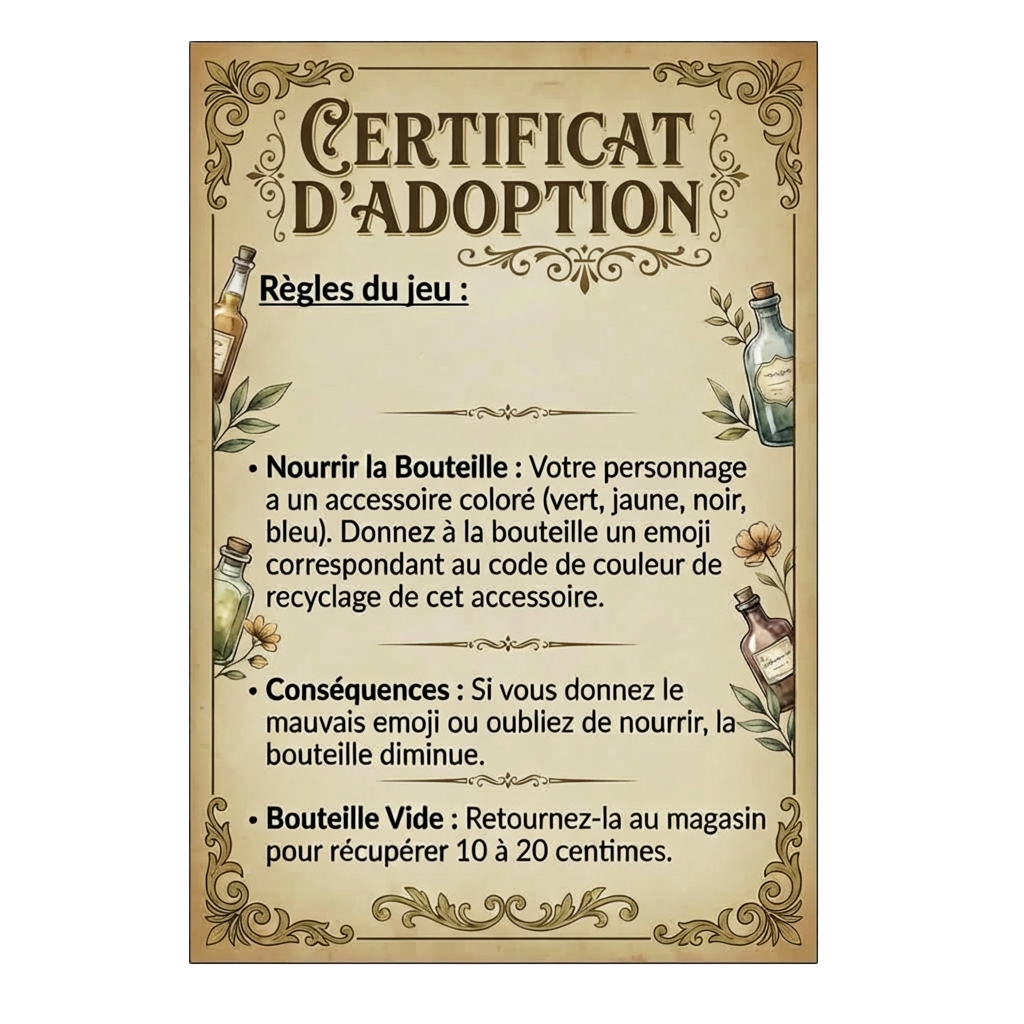
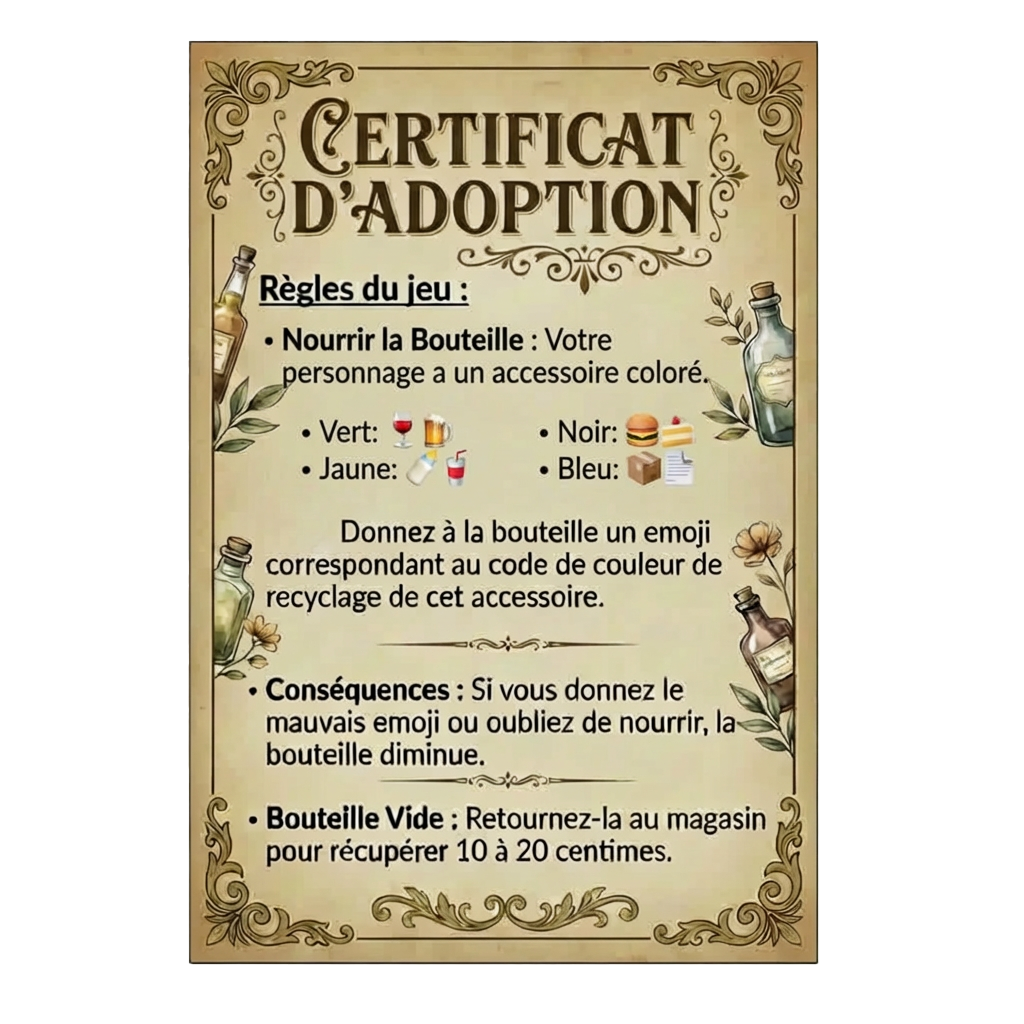
Updated the rules

diff --git a/endpoint/endpoint.py b/endpoint/endpoint.py
@@ -526,7 +526,8 @@ def whatsapp_webhook():
                     
                     # Send rules image
                     try:
-                        rules_url = f"{base_url.rstrip('/')}/rules/regles%20du%20jeu.png"
+                        # Add version query param to bypass WhatsApp media cache
+                        rules_url = f"{base_url.rstrip('/')}/rules/regles%20du%20jeu.png?v=2"
                         rules_sid = send_whatsapp_media(from_number, rules_url, "Here are the rules of the game!")
                         print(f"✅ Rules image sent: {rules_sid}")
                         
@@ -656,7 +657,8 @@ def whatsapp_webhook():
                     print("📋 RULES REQUEST DETECTED")
                     print("=" * 60)
                     try:
-                        rules_url = f"{base_url.rstrip('/')}/rules/regles%20du%20jeu.png"
+                        # Add version query param to bypass WhatsApp media cache
+                        rules_url = f"{base_url.rstrip('/')}/rules/regles%20du%20jeu.png?v=2"
                         rules_sid = send_whatsapp_media(from_number, rules_url, "Voici les règles du jeu !")
                         print(f"✅ Rules image sent: {rules_sid}")
                         

diff --git a/tests/verify_database_url.py b/tests/verify_database_url.py
@@ -161,3 +161,4 @@ if __name__ == "__main__":
 
 
 
+

diff --git a/db/__init__.py b/db/__init__.py
@@ -20,3 +20,4 @@
 
 
 
+
